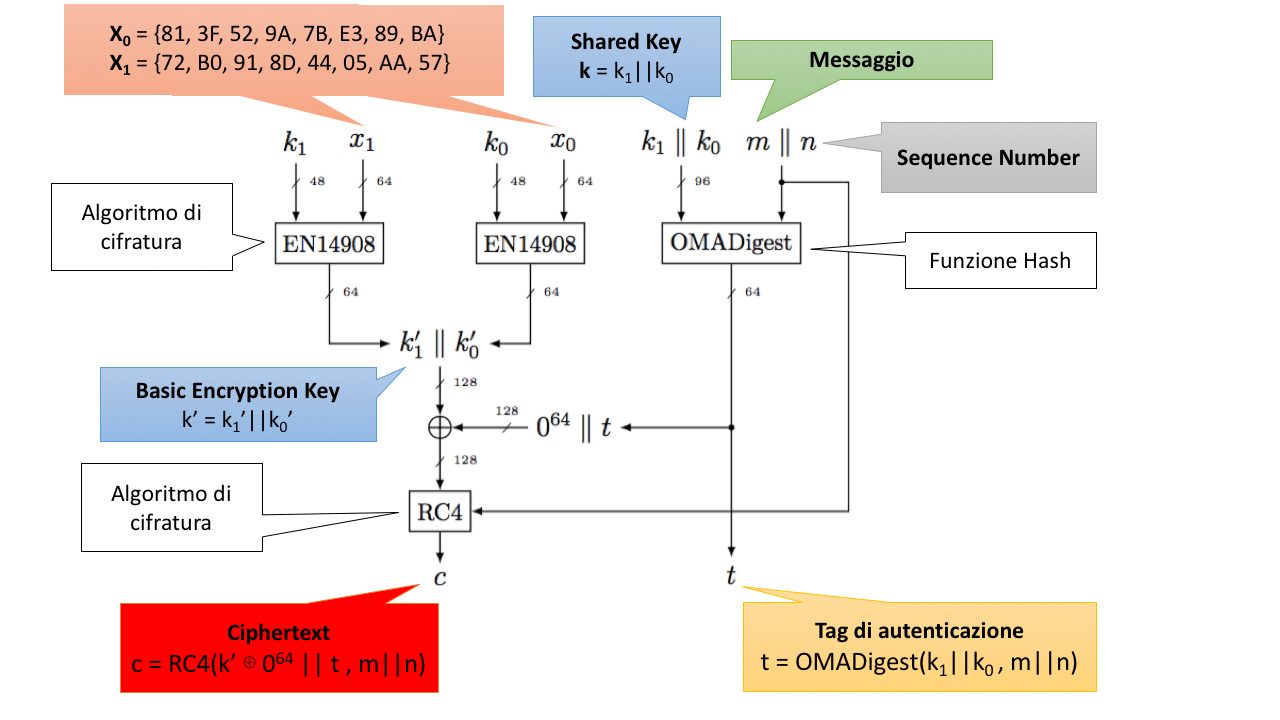
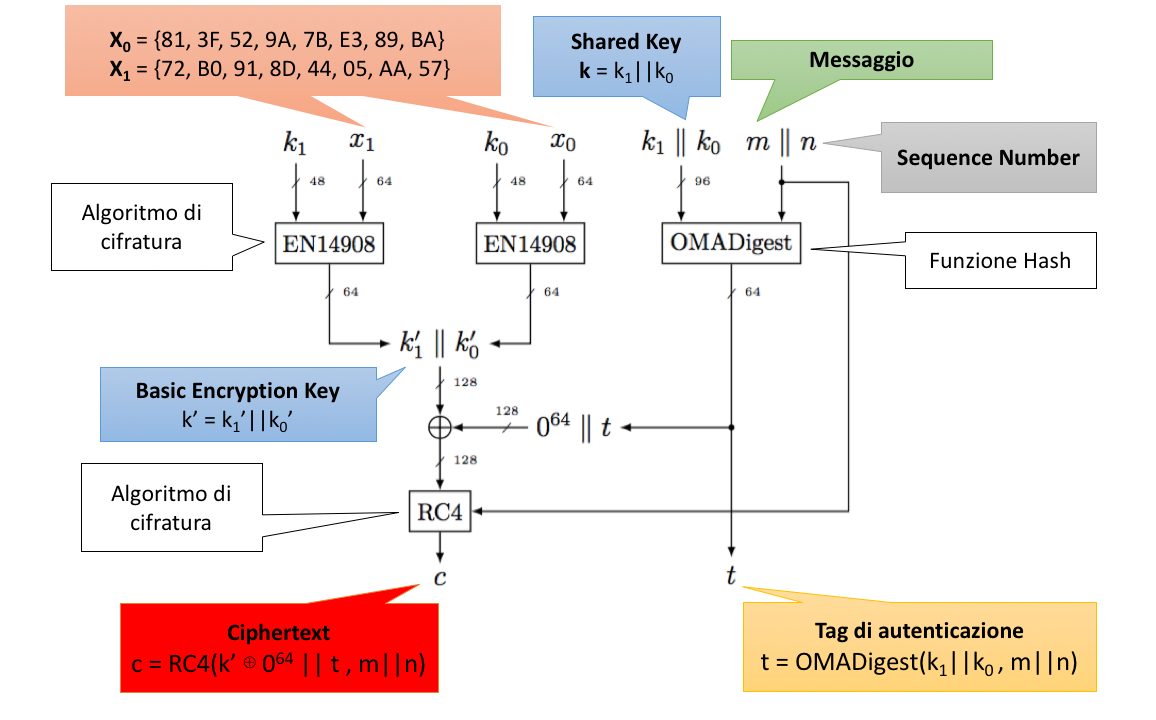
update AE schemes

diff --git a/cap5.tex b/cap5.tex
@@ -209,49 +209,60 @@
 \begin{frame}{Principali vulnerabilità delle Smart Grid: OSGP - Authenticated Encryption Scheme}
 	\textbf{Schema di cifratura}
 	\begin{figure}[h] 
-		\includegraphics[scale=0.4,cfbox=blue_slides 1pt 0pt]{imgs/c_scheme.png}
+		\includegraphics[scale=0.3,cfbox=blue_slides 1pt 0pt]{imgs/schemes/blackbox-1.png}
+		%\includegraphics[scale=0.3,cfbox=blue_slides 1pt 0pt]{imgs/schemes/blackbox-1bw.png}
 	\end{figure}
 \end{frame}
 
 \begin{frame}{Principali vulnerabilità delle Smart Grid: OSGP - Authenticated Encryption Scheme}
-	\textbf{Schema di cifratura: parametri di input}
+	\textbf{Schema di cifratura}
 	\begin{figure}[h] 
-		\includegraphics[scale=0.25,cfbox=blue_slides 1pt 0pt]{imgs/c_scheme.png}
+		\includegraphics[scale=0.3,cfbox=blue_slides 1pt 0pt]{imgs/schemes/scheme-1(info).png}
+		%\includegraphics[scale=0.3,cfbox=blue_slides 1pt 0pt]{imgs/schemes/scheme-1.png}
+		%\includegraphics[scale=0.3,cfbox=blue_slides 1pt 0pt]{imgs/schemes/scheme-1bw(info).png}
+		%\includegraphics[scale=0.3,cfbox=blue_slides 1pt 0pt]{imgs/schemes/scheme-1bw.png}
 	\end{figure}
-		\only<1>{Costanti
-		\begin{itemize}
-			\item $x_0 = \{${\tt 81, 3F, 52, 9A, 7B, E3, 89, BA}$\}$
-			\item $x_1 = \{${\tt 72, B0, 91, 8D, 44, 05, AA, 57}$\}$
-		\end{itemize}}
-		\only<2>{Shared Key $k = k_1 \| k_0$
-		\begin{itemize}
-			\item $k$
-			\item $k_1$
-			\item $k_0$
-		\end{itemize}}
-		\only<3>{Messaggio $m$}
-		\only<4>{Sequence number $n$
-			\begin{itemize}
-				\item Generato in maniera casuale al primo avvio del device
-				\item Incrementato dopo ogni messaggio scambiato
-				\item Inviato insieme al messaggio
-				%\item Utilizzato nella funzione OMADigest
-				\item Usato dal ricevitore per verificare la validità del messaggio
-				\begin{itemize}
-					\item Messaggio valido se $n$ ricevuto $\in [n-1, n+8]$
-					\item In caso contrario, il ricevitore invia messaggio cifrato contenente il sequence number $n$ corrente del device
-				\end{itemize}
-			\end{itemize}}
 \end{frame}
 
-\begin{frame}{Principali vulnerabilità delle Smart Grid: OSGP - Authenticated Encryption Scheme}
-	\textbf{Schema di cifratura: parametri di output}
-	\begin{figure}[h] 
-		\includegraphics[scale=0.25,cfbox=blue_slides 1pt 0pt]{imgs/c_scheme.png}
-	\end{figure}
-		\only<1>{Tag di autenticazione $t$% \gets OMADigest(k_1\|k_0,\,m\|n)$, 64 bit}
-		\only<2>{Ciphertext $c$% \gets RC4(k^{\prime} \oplus 0^{64}\|t,\,m\|n)$}
-\end{frame}
+%\begin{frame}{Principali vulnerabilità delle Smart Grid: OSGP - Authenticated Encryption Scheme}
+%	\textbf{Schema di cifratura: parametri di input}
+%	\begin{figure}[h] 
+%		\includegraphics[scale=0.25,cfbox=blue_slides 1pt 0pt]{imgs/c_scheme.png}
+%	\end{figure}
+%		\only<1>{Costanti
+%		\begin{itemize}
+%			\item $x_0 = \{${\tt 81, 3F, 52, 9A, 7B, E3, 89, BA}$\}$
+%			\item $x_1 = \{${\tt 72, B0, 91, 8D, 44, 05, AA, 57}$\}$
+%		\end{itemize}}
+%		\only<2>{Shared Key $k = k_1 \| k_0$
+%		\begin{itemize}
+%			\item $k$
+%			\item $k_1$
+%			\item $k_0$
+%		\end{itemize}}
+%		\only<3>{Messaggio $m$}
+%		\only<4>{Sequence number $n$
+%			\begin{itemize}
+%				\item Generato in maniera casuale al primo avvio del device
+%				\item Incrementato dopo ogni messaggio scambiato
+%				\item Inviato insieme al messaggio
+%				%\item Utilizzato nella funzione OMADigest
+%				\item Usato dal ricevitore per verificare la validità del messaggio
+%				\begin{itemize}
+%					\item Messaggio valido se $n$ ricevuto $\in [n-1, n+8]$
+%					\item In caso contrario, il ricevitore invia messaggio cifrato contenente il sequence number $n$ corrente del device
+%				\end{itemize}
+%			\end{itemize}}
+%\end{frame}
+
+%\begin{frame}{Principali vulnerabilità delle Smart Grid: OSGP - Authenticated Encryption Scheme}
+%	\textbf{Schema di cifratura: parametri di output}
+%	\begin{figure}[h] 
+%		\includegraphics[scale=0.25,cfbox=blue_slides 1pt 0pt]{imgs/c_scheme.png}
+%	\end{figure}
+%		\only<1>{Tag di autenticazione $t$}
+%		\only<2>{Ciphertext $c$}
+%\end{frame}
 
 %\begin{frame}{Principali vulnerabilità delle Smart Grid: OSGP - Authenticated Encryption Scheme}
 %	\textbf{Parametri di input dello schema di cifratura}
@@ -298,78 +309,78 @@
 %	\end{itemize}
 %\end{frame}
 
-\begin{frame}{Principali vulnerabilità delle Smart Grid: OSGP - Authenticated Encryption Scheme}
-	\textbf{Building Blocks dello schema di cifratura autenticata}
-	\begin{itemize}
-		\item Protocollo EN14908
-		\item Funzione OMADigest
-		\item Algoritmo di cifratura RC4
-	\end{itemize}
-\end{frame}
+%\begin{frame}{Principali vulnerabilità delle Smart Grid: OSGP - Authenticated Encryption Scheme}
+%	\textbf{Building Blocks dello schema di cifratura autenticata}
+%	\begin{itemize}
+%		\item Protocollo EN14908
+%		\item Funzione OMADigest
+%		\item Algoritmo di cifratura RC4
+%	\end{itemize}
+%\end{frame}
 
-\begin{frame}{Principali vulnerabilità delle Smart Grid: OSGP - Authenticated Encryption Scheme}
-	\textbf{Building Blocks dello schema di cifratura autenticata}
-	\begin{itemize}
-		\alert<1>{\item Protocollo EN14908}
-		\item Funzione OMADigest
-		\item Algoritmo di cifratura RC4
-	\end{itemize}
-\end{frame}
+%\begin{frame}{Principali vulnerabilità delle Smart Grid: OSGP - Authenticated Encryption Scheme}
+%	\textbf{Building Blocks dello schema di cifratura autenticata}
+%	\begin{itemize}
+%		\alert<1>{\item Protocollo EN14908}
+%		\item Funzione OMADigest
+%		\item Algoritmo di cifratura RC4
+%	\end{itemize}
+%\end{frame}
 
-\begin{frame}{Principali vulnerabilità delle Smart Grid: OSGP - Authenticated Encryption Scheme}
-	\textbf{Protocollo EN14908}\\
-	Setup iniziale con valore scelto in maniera casuale
-	\begin{figure}[h] 
-		\includegraphics[scale=0.3,cfbox=blue_slides 1pt 0pt]{imgs/EN14908.png}
-	\end{figure}
-	Base Encryption Key (BEK) $k^{\prime} = k_1^{\prime} \| k_0^{\prime}$
-		\begin{itemize}
-			\item $k^{\prime}$, 128 bit
-			\item $k_1^{\prime} \gets EN14908(k_1,\,x_1)$, 64 bit
-			\item $k_0^{\prime} \gets EN14908(k_0,\,x_0)$, 64 bit
-		\end{itemize}
-\end{frame}
+%\begin{frame}{Principali vulnerabilità delle Smart Grid: OSGP - Authenticated Encryption Scheme}
+%	\textbf{Protocollo EN14908}\\
+%	Setup iniziale con valore scelto in maniera casuale
+%	\begin{figure}[h] 
+%		\includegraphics[scale=0.3,cfbox=blue_slides 1pt 0pt]{imgs/EN14908.png}
+%	\end{figure}
+%	Base Encryption Key (BEK) $k^{\prime} = k_1^{\prime} \| k_0^{\prime}$
+%		\begin{itemize}
+%			\item $k^{\prime}$, 128 bit
+%			\item $k_1^{\prime} \gets EN14908(k_1,\,x_1)$, 64 bit
+%			\item $k_0^{\prime} \gets EN14908(k_0,\,x_0)$, 64 bit
+%		\end{itemize}
+%\end{frame}
 
-\begin{frame}{Principali vulnerabilità delle Smart Grid: OSGP - Authenticated Encryption Scheme}
-	\textbf{Building Blocks dello schema di cifratura autenticata}
-	\begin{itemize}
-		\item Protocollo EN14908
-		\alert<1>{\item Funzione OMADigest}
-		\item Algoritmo di cifratura RC4
-	\end{itemize}
-\end{frame}
+%\begin{frame}{Principali vulnerabilità delle Smart Grid: OSGP - Authenticated Encryption Scheme}
+%	\textbf{Building Blocks dello schema di cifratura autenticata}
+%	\begin{itemize}
+%		\item Protocollo EN14908
+%		\alert<1>{\item Funzione OMADigest}
+%		\item Algoritmo di cifratura RC4
+%	\end{itemize}
+%\end{frame}
 
-\begin{frame}{Principali vulnerabilità delle Smart Grid: OSGP - Authenticated Encryption Scheme}
-	\textbf{Funzione OMADigest}
-	\begin{figure}[h] 
-		\includegraphics[scale=0.4,cfbox=blue_slides 1pt 0pt]{imgs/OMADigest.png}
-	\end{figure}
-	\begin{itemize}
-		\item Messaggio $m$
-		\item Sequence number $n$
-		\item Shared Key $k = k_1 \| k_0$
-	\end{itemize}
-\end{frame}
+%\begin{frame}{Principali vulnerabilità delle Smart Grid: OSGP - Authenticated Encryption Scheme}
+%	\textbf{Funzione OMADigest}
+%	\begin{figure}[h] 
+%		\includegraphics[scale=0.4,cfbox=blue_slides 1pt 0pt]{imgs/OMADigest.png}
+%	\end{figure}
+%	\begin{itemize}
+%		\item Messaggio $m$
+%		\item Sequence number $n$
+%		\item Shared Key $k = k_1 \| k_0$
+%	\end{itemize}
+%\end{frame}
 
-\begin{frame}{Principali vulnerabilità delle Smart Grid: OSGP - Authenticated Encryption Scheme}
-	\textbf{Building Blocks dello schema di cifratura autenticata}
-	\begin{itemize}
-		\item Protocollo EN14908
-		\item Funzione OMADigest
-		\alert<1>{\item Algoritmo di cifratura RC4}
-	\end{itemize}
-\end{frame}
+%\begin{frame}{Principali vulnerabilità delle Smart Grid: OSGP - Authenticated Encryption Scheme}
+%	\textbf{Building Blocks dello schema di cifratura autenticata}
+%	\begin{itemize}
+%		\item Protocollo EN14908
+%		\item Funzione OMADigest
+%		\alert<1>{\item Algoritmo di cifratura RC4}
+%	\end{itemize}
+%\end{frame}
 
-\begin{frame}{Principali vulnerabilità delle Smart Grid: OSGP - Authenticated Encryption Scheme}
-	\textbf{Algoritmo di cifratura RC4}
-	\begin{itemize}[<+- | alert@+>]
-		\item Stream cipher RC4 - Ron Rivest, 1987 (mai pubblicato uff.)
-		\begin{itemize}
-			\item Periodicità nei primi 256 byte
-			\item Forte correlazione fra chiave e keystream (\textit{Breaking 104 bit WEP in less than 60 seconds})
-		\end{itemize}
-	\end{itemize}
-\end{frame}
+%\begin{frame}{Principali vulnerabilità delle Smart Grid: OSGP - Authenticated Encryption Scheme}
+%	\textbf{Algoritmo di cifratura RC4}
+%	\begin{itemize}[<+- | alert@+>]
+%		\item Stream cipher RC4 - Ron Rivest, 1987 (mai pubblicato uff.)
+%		\begin{itemize}
+%			\item Periodicità nei primi 256 byte
+%			\item Forte correlazione fra chiave e keystream (\textit{Breaking 104 bit WEP in less than 60 seconds})
+%		\end{itemize}
+%	\end{itemize}
+%\end{frame}
 
 
 %\begin{frame}{Principali vulnerabilità delle Smart Grid: OSGP - Authentication}
@@ -413,12 +424,12 @@
 % Subnet e Node si riferiscono sempre a subnet/node del target della richiesta. Stesso indirizzo in entrambe le direzioni. 
 % Request e Sequence fanno riferimento sempre ai valori nel messaggio di richiesta originale.
 
-\begin{frame}{Principali vulnerabilità delle Smart Grid: OSGP - Authenticated Encryption Scheme}
-	\begin{figure}[t]
-		\includegraphics[scale=0.35,cfbox=blue_slides 1pt 0pt]{imgs/osgp.png}
-	\end{figure}
-	{$t \gets OMADigest(k_1\|k_0,\,m\|n)$, 64 bit}\\
-	{$c \gets RC4(k^{\prime} \oplus 0^{64}\|t,\,m\|n)$}
+%\begin{frame}{Principali vulnerabilità delle Smart Grid: OSGP - Authenticated Encryption Scheme}
+%	\begin{figure}[t]
+%		\includegraphics[scale=0.35,cfbox=blue_slides 1pt 0pt]{imgs/osgp.png}
+%	\end{figure}
+%	{$t \gets OMADigest(k_1\|k_0,\,m\|n)$, 64 bit}\\
+%	{$c \gets RC4(k^{\prime} \oplus 0^{64}\|t,\,m\|n)$}
 %	\only<1>{Costante $x_0 = \{${\tt 81, 3F, 52, 9A, 7B, E3, 89, BA}$\}$}
 %	\only<2>{Costante $x_1 = \{${\tt 72, B0, 91, 8D, 44, 05, AA, 57}$\}$}
 %	\only<3>{Open Media Access Key (OMAK) univoca per dispositivo: $k = k_1 \| k_0$}
@@ -427,7 +438,7 @@
 %	\only<6>{$t$: tag di autenticazione}
 %	\only<7>{Base Encryption Key (BEK) $k^\prime = k^{\prime}_{1} \| k^{\prime}_{0}$}
 %	\only<8>{$c$: ciphertex}
-\end{frame}
+%\end{frame}
 
 %\begin{frame}{Principali vulnerabilità delle Smart Grid: Analisi di OSGP}
 %	\textbf{Problemi legati alla sicurezza di OSGP}	
